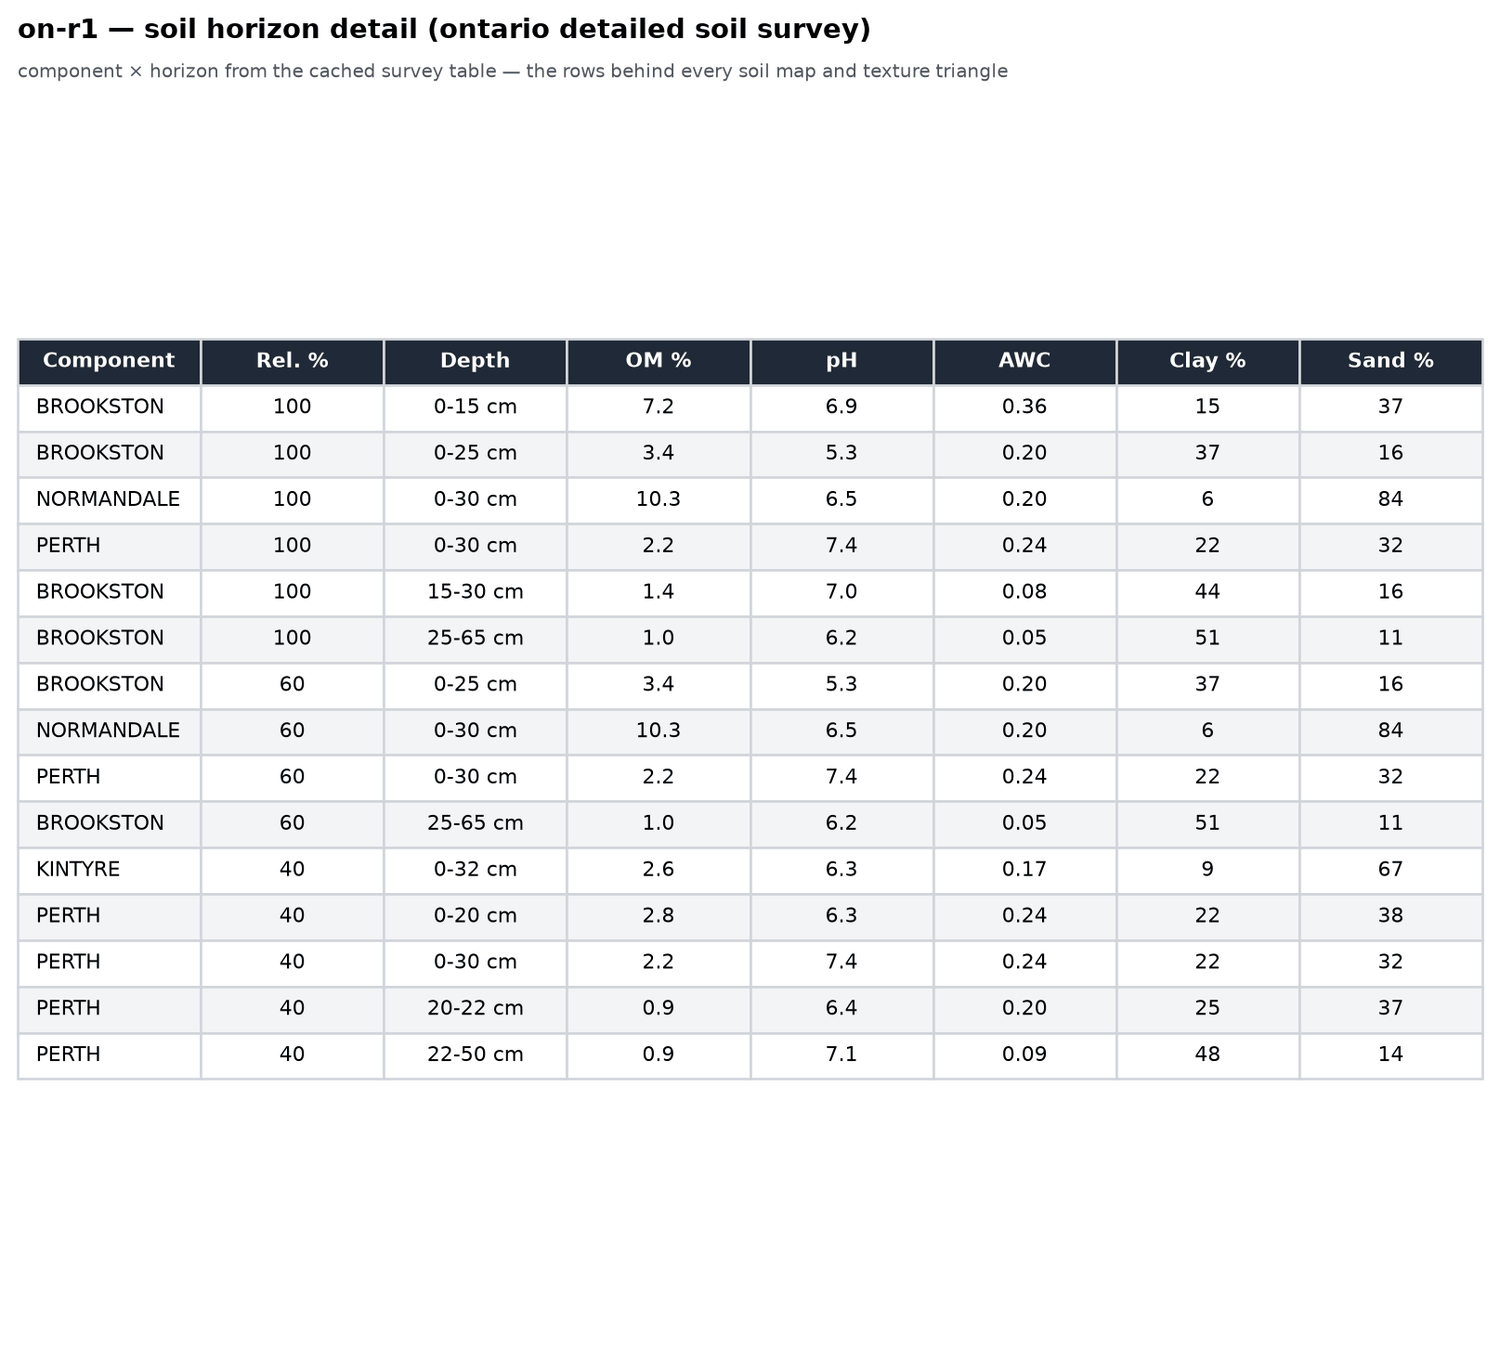
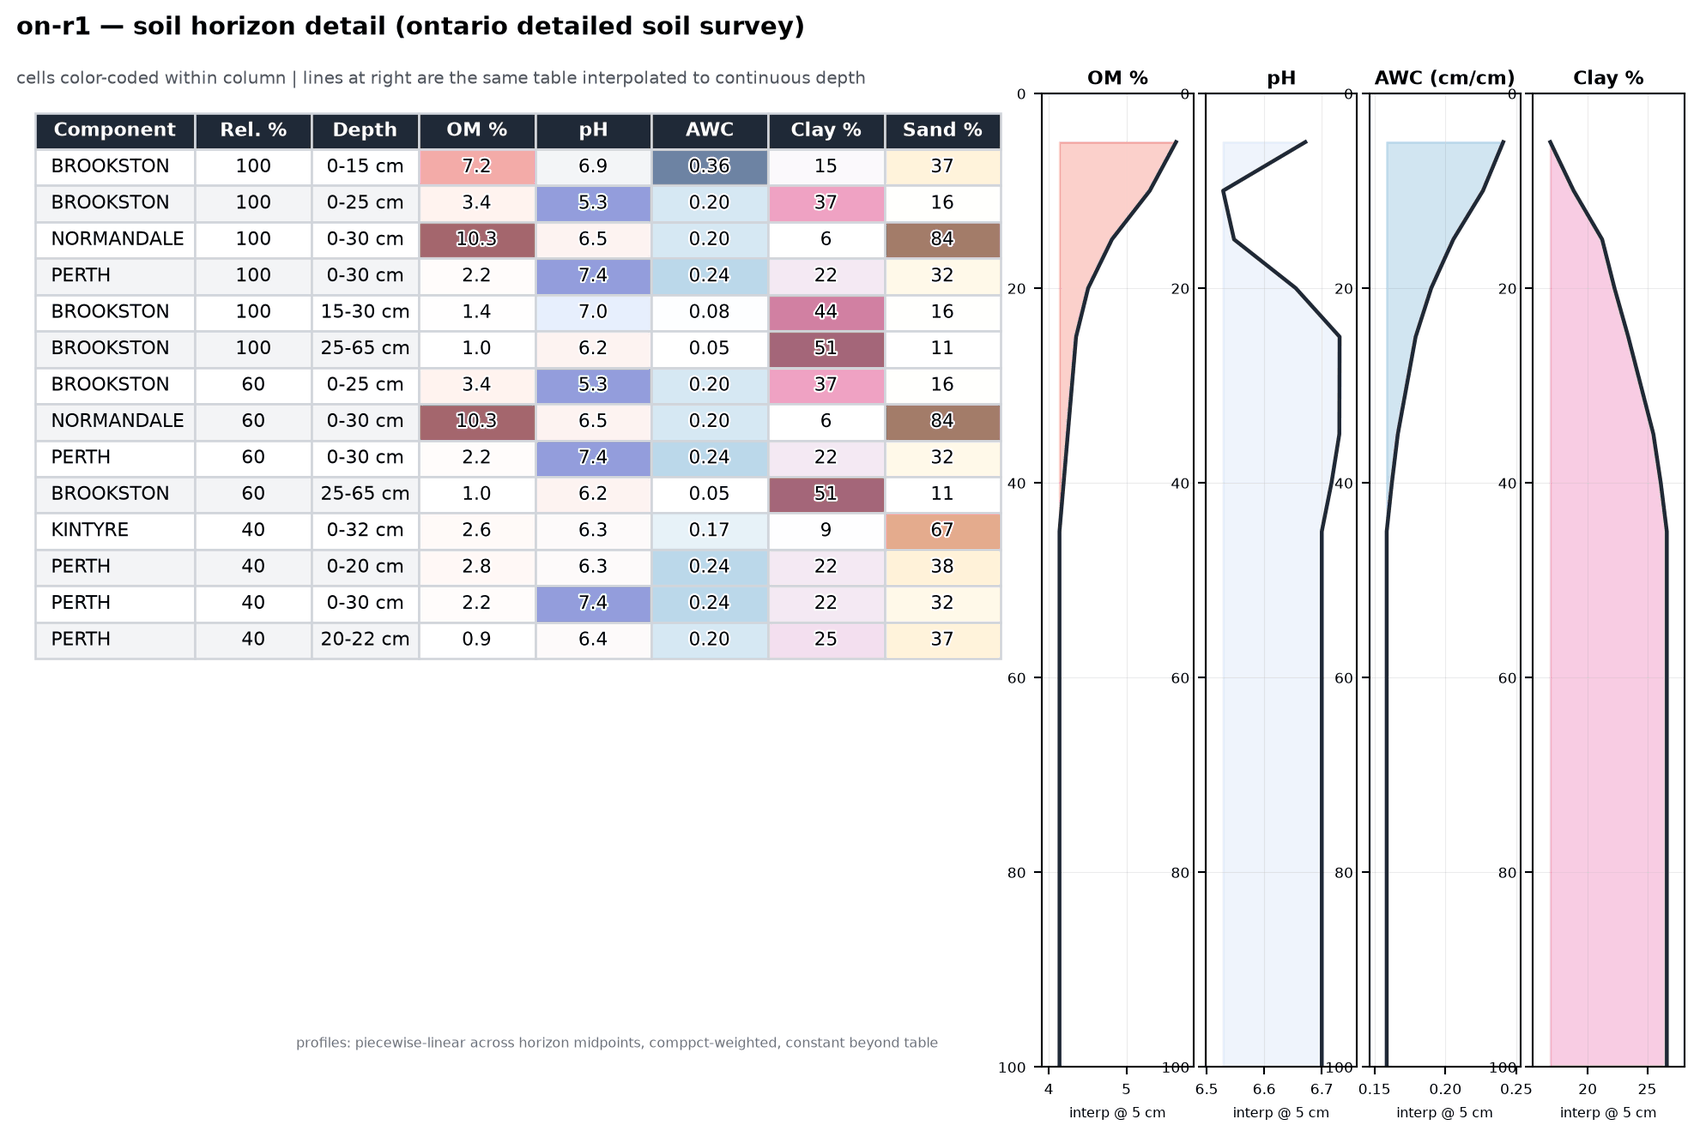
Horizon tables: value color-coding + SSURGO interval depth interpolation
--horizon-table now emits a two-part figure: component x horizon table with
each numeric column heat-mapped within its own range (OM/pH/AWC/clay/sand,
white text halo keeps mid-tones legible), and beside it the interpolated
0-100 cm profiles at 5 cm bins — piecewise-linear across horizon midpoints,
comppct-weighted across components, constant beyond measured table (stated
in the footnote). Component column widened after QC caught truncated series
names. Vision-QC: IA + ON pass, all names full, no clipping.

Changed region(s): [[0.0, 0.0, 1.0, 0.985], [0.184, 0.8927, 0.552, 0.9235], [0.736, 0.1231, 0.7667, 0.1539]]

diff --git a/my-farm-advisor/data-pipeline/src/scripts/reporting/generate_soil_texture_triangles.py b/my-farm-advisor/data-pipeline/src/scripts/reporting/generate_soil_texture_triangles.py
@@ -252,8 +252,44 @@ def render(csv_path: Path, label: str, out: Path, source_note: str = "SSURGO",
     print(f"saved {out}")
 
 
+def _hex_blend(white_frac: float, rgb) -> str:
+    r, g, b = rgb
+    r = round(255 * white_frac + r * (1 - white_frac))
+    g = round(255 * white_frac + g * (1 - white_frac))
+    b = round(255 * white_frac + b * (1 - white_frac))
+    return f"#{r:02x}{g:02x}{b:02x}"
+
+
+def _interp_profile(df: pd.DataFrame, col: str, bins: np.ndarray) -> np.ndarray | None:
+    """Depth profile for one property: per component, piecewise-linear across
+    horizon midpoints (constant beyond the first/last midpoint); components
+    averaged weighted by comppct_r. The standard SSURGO interval interpolation."""
+    series, weights = [], []
+    for (_c, pct), sub in df.groupby(["compname", "comppct_r"]):
+        sub = sub.dropna(subset=[col]).sort_values("hzdept_r")
+        if sub.empty:
+            continue
+        mid = (sub["hzdept_r"] + sub["hzdepb_r"]) / 2.0
+        val = sub[col]
+        order = np.argsort(mid.values)
+        mid, val = mid.values[order], val.values[order]
+        keep = ~np.isnan(val)
+        if keep.sum() == 0:
+            continue
+        series.append(np.interp(bins, mid[keep], val[keep]))
+        weights.append(pct)
+    if not series:
+        return None
+    w = np.asarray(weights, dtype=float)
+    return (np.vstack(series) * w[:, None]).sum(axis=0) / w.sum()
+
+
 def render_horizon_table(csv_path: Path, label: str, out: Path, source_note: str = "SSURGO") -> None:
-    """Horizon detail table: one row per component x depth slice, topsoil first."""
+    """Color-coded component x horizon table with comppct-weighted,
+    interval-interpolated 0-100 cm depth profiles beside it."""
+    import matplotlib.gridspec as gridspec
+    import matplotlib.patheffects as pe
+
     df = pd.read_csv(csv_path)
     df = df.dropna(subset=["claytotal_r"]).copy()
     df["slice"] = df["hzdept_r"].astype(int).astype(str) + "-" + df["hzdepb_r"].astype(int).astype(str) + " cm"
@@ -261,40 +297,79 @@ def render_horizon_table(csv_path: Path, label: str, out: Path, source_note: str
         hzdept=("hzdept_r", "min"), om=("om_r", "mean"), ph=("ph1to1h2o_r", "mean"),
         awc=("awc_r", "mean"), clay=("claytotal_r", "mean"), sand=("sandtotal_r", "mean"),
     ).sort_values(["comppct_r", "hzdept"], ascending=[False, True])
-    g = g.head(18)
+    g = g.head(14)
 
-    fig, ax = plt.subplots(figsize=(8.6, 0.42 * len(g) + 1.5))
-    ax.axis("off")
+    fig = plt.figure(figsize=(13.2, 0.44 * len(g) + 1.6))
+    gs = gridspec.GridSpec(1, 2, width_ratios=[1.45, 1.0], wspace=0.12)
+    ax_t = fig.add_subplot(gs[0]); ax_t.axis("off")
     cols = ["Component", "Rel. %", "Depth", "OM %", "pH", "AWC", "Clay %", "Sand %"]
+    num_cols = {3: ("om", plt.get_cmap("Reds"), 0.6), 4: ("ph", plt.get_cmap("coolwarm_r"), 0.55),
+                5: ("awc", plt.get_cmap("Blues"), 0.6), 6: ("clay", plt.get_cmap("PuRd"), 0.6),
+                7: ("sand", plt.get_cmap("YlOrBr"), 0.6)}
     cells = [
         [r.compname, f"{r.comppct_r:.0f}", r.slice,
-         "-" if pd.isna(r.om) else f"{r.om:.1f}",
-         "-" if pd.isna(r.ph) else f"{r.ph:.1f}",
-         "-" if pd.isna(r.awc) else f"{r.awc:.2f}",
-         f"{r.clay:.0f}", "-" if pd.isna(r.sand) else f"{r.sand:.0f}"]
+         "" if pd.isna(r.om) else f"{r.om:.1f}",
+         "" if pd.isna(r.ph) else f"{r.ph:.1f}",
+         "" if pd.isna(r.awc) else f"{r.awc:.2f}",
+         f"{r.clay:.0f}", "" if pd.isna(r.sand) else f"{r.sand:.0f}"]
         for r in g.itertuples()
     ]
-    tbl = ax.table(cellText=cells, colLabels=cols, loc="center", cellLoc="center")
-    tbl.auto_set_font_size(False)
-    tbl.set_fontsize(8.2)
-    tbl.scale(1, 1.32)
+    tbl = ax_t.table(cellText=cells, colLabels=cols, loc="upper left", cellLoc="center")
+    tbl.auto_set_font_size(False); tbl.set_fontsize(8.2)
+    tbl.auto_set_column_width(col=(0, 2))
+    tbl.scale(1, 1.34)
+    spans = {}
+    for ci, (key, _, _) in num_cols.items():
+        vals = pd.to_numeric(pd.Series([row[ci] for row in cells]), errors="coerce").dropna()
+        if len(vals):
+            spans[ci] = (vals.min(), vals.max())
     for (row, col), cell in tbl.get_celld().items():
         cell.set_edgecolor("#d1d5db")
         if row == 0:
-            cell.set_facecolor("#1f2937")
-            cell.set_text_props(color="white", weight="bold")
+            cell.set_facecolor("#1f2937"); cell.set_text_props(color="white", weight="bold")
+            continue
+        if col in num_cols and cells[row - 1][col]:
+            key, cmap, strength = num_cols[col]
+            lo, hi = spans[col]
+            v = float(cells[row - 1][col])
+            f = 0.5 if hi == lo else (v - lo) / (hi - lo)
+            if key == "ph":  # diverging: neutral mid keeps lightness honest
+                f = abs(v - float(np.mean([lo, hi]))) / max((hi - lo) / 2, 1e-9)
+            cell.set_facecolor(_hex_blend(1 - strength * f, tuple(int(x * 255) for x in cmap(f)[:3])))
+            cell.set_text_props(path_effects=[pe.withStroke(linewidth=1.6, foreground="white")])
         elif row % 2 == 0:
             cell.set_facecolor("#f3f4f6")
-        if col == 0 and row > 0:
+        if col == 0:
             cell.set_text_props(ha="left")
-    ax.set_title(
+    ax_t.set_title(
         f"{label} — soil horizon detail ({source_note.lower()})",
-        fontsize=11, weight="bold", loc="left", pad=16,
+        fontsize=11, weight="bold", loc="left", pad=26,
     )
-    ax.text(0, 1.0, "component × horizon from the cached survey table — the rows behind "
-            "every soil map and texture triangle", transform=ax.transAxes,
-            fontsize=7.4, color="#4b5563")
-    fig.tight_layout()
+    ax_t.text(0, 1.01, "cells color-coded within column | lines at right are the same table "
+              "interpolated to continuous depth", transform=ax_t.transAxes,
+              fontsize=7.4, color="#4b5563")
+
+    # --- interpolated profiles (comppct-weighted, 5 cm bins) ---
+    bins = np.arange(5, 101, 5.0)
+    panels = [("OM %", _interp_profile(df, "om_r", bins), plt.get_cmap("Reds")),
+              ("pH", _interp_profile(df, "ph1to1h2o_r", bins), plt.get_cmap("coolwarm_r")),
+              ("AWC (cm/cm)", _interp_profile(df, "awc_r", bins), plt.get_cmap("Blues")),
+              ("Clay %", _interp_profile(df, "claytotal_r", bins), plt.get_cmap("PuRd"))]
+    have = [(n, y, c) for n, y, c in panels if y is not None]
+    gs2 = gridspec.GridSpecFromSubplotSpec(1, len(have), subplot_spec=gs[1], wspace=0.08)
+    for i, (name, y, cmap) in enumerate(have):
+        ax = fig.add_subplot(gs2[i])
+        ax.plot(y, bins, color="#1f2937", lw=1.7)
+        ax.fill_betweenx(bins, y, y.min(), alpha=0.25, color=cmap(0.6))
+        ax.set_ylim(100, 0); ax.set_xlim(y.min() - (y.max()-y.min())*0.15 - 1e-9,
+                                         y.max() + (y.max()-y.min())*0.15 + 1e-9)
+        ax.set_title(name, fontsize=8.2, weight="bold", pad=4)
+        ax.tick_params(labelsize=6.6)
+        ax.grid(alpha=0.25, lw=0.4)
+        ax.set_xlabel("interp @ 5 cm", fontsize=6.2)
+    ax_t.text(0.99, 0.02, "profiles: piecewise-linear across horizon midpoints, comppct-weighted, "
+              "constant beyond table", transform=ax_t.transAxes, fontsize=6.0,
+              color="#6b7280", ha="right")
     out.parent.mkdir(parents=True, exist_ok=True)
     fig.savefig(out, dpi=190, bbox_inches="tight", facecolor="white")
     plt.close(fig)

diff --git a/README.md b/README.md
@@ -87,7 +87,7 @@ national atlases where they do, and the global 250 m floor everywhere:
 | US — SSURGO horizons | Canada — ON-DSS horizons |
 | --- | --- |
 | ![Iowa horizon table](my-farm-advisor/data-pipeline/examples/soil-maps/output/ia-r1_horizon_table.png) | ![Ontario horizon table](my-farm-advisor/data-pipeline/examples/soil-maps/output/on-r1_horizon_table.png) |
-| Component × horizon: OM, pH, AWC, texture by depth slice — 18 rows here, the full table sits in the field's cached soil CSV | Same schema, same renderer: named Ontario series (Brookston, Perth, Normandale) with their real horizon splits |
+| Cells color-coded within column; at right the same table **interpolated to continuous depth** (piecewise-linear across horizon midpoints, comppct-weighted, 5 cm bins, 0–100 cm) — the classic SSURGO interval interpolation, honest about being constant beyond measured table | Same schema, same renderer: Ontario series (Brookston, Perth, Normandale, Kintyre) with real horizon splits and the same interpolated profiles |
 
 ### Terrain derivatives — ready the moment the DEM lands
 
